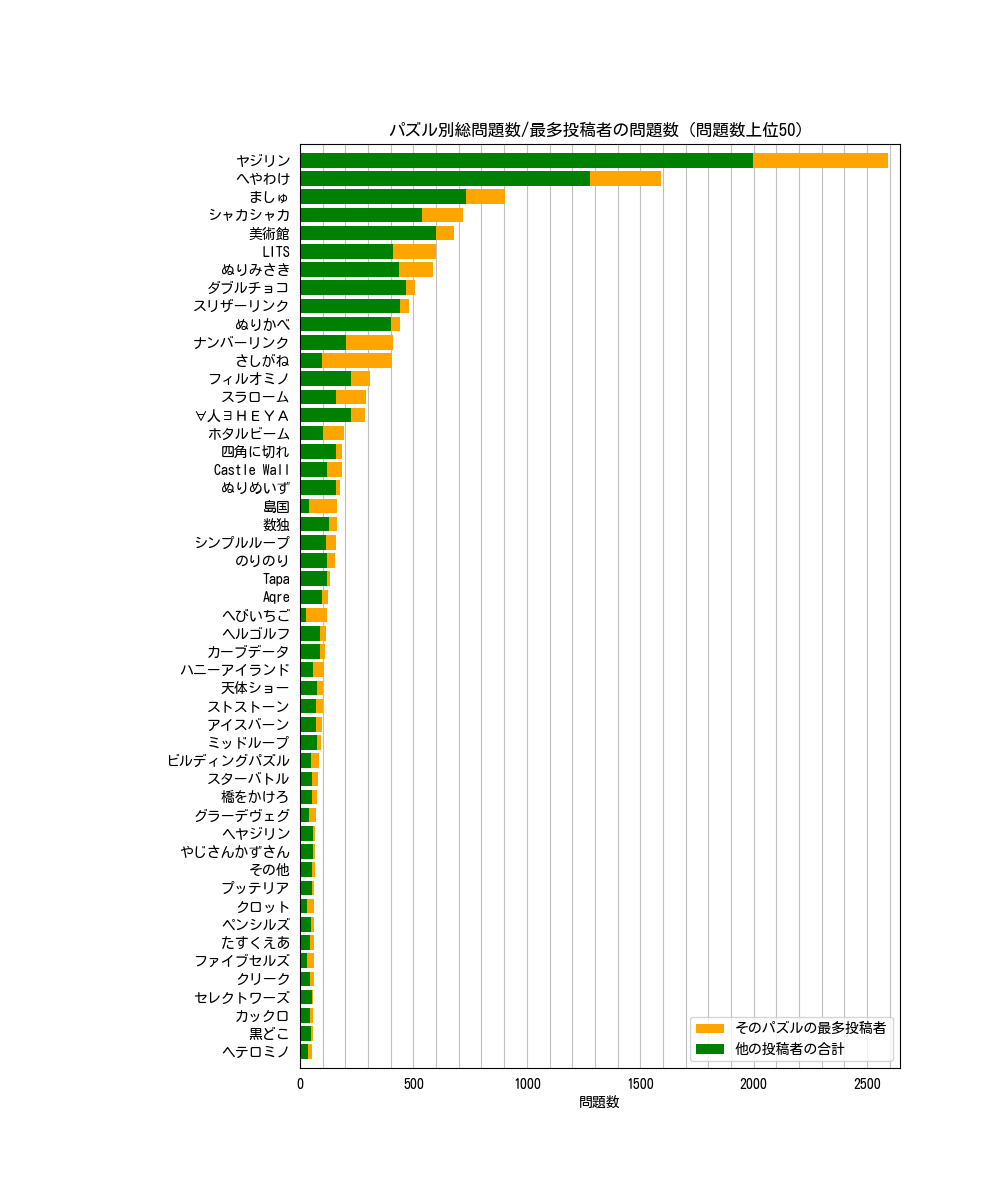
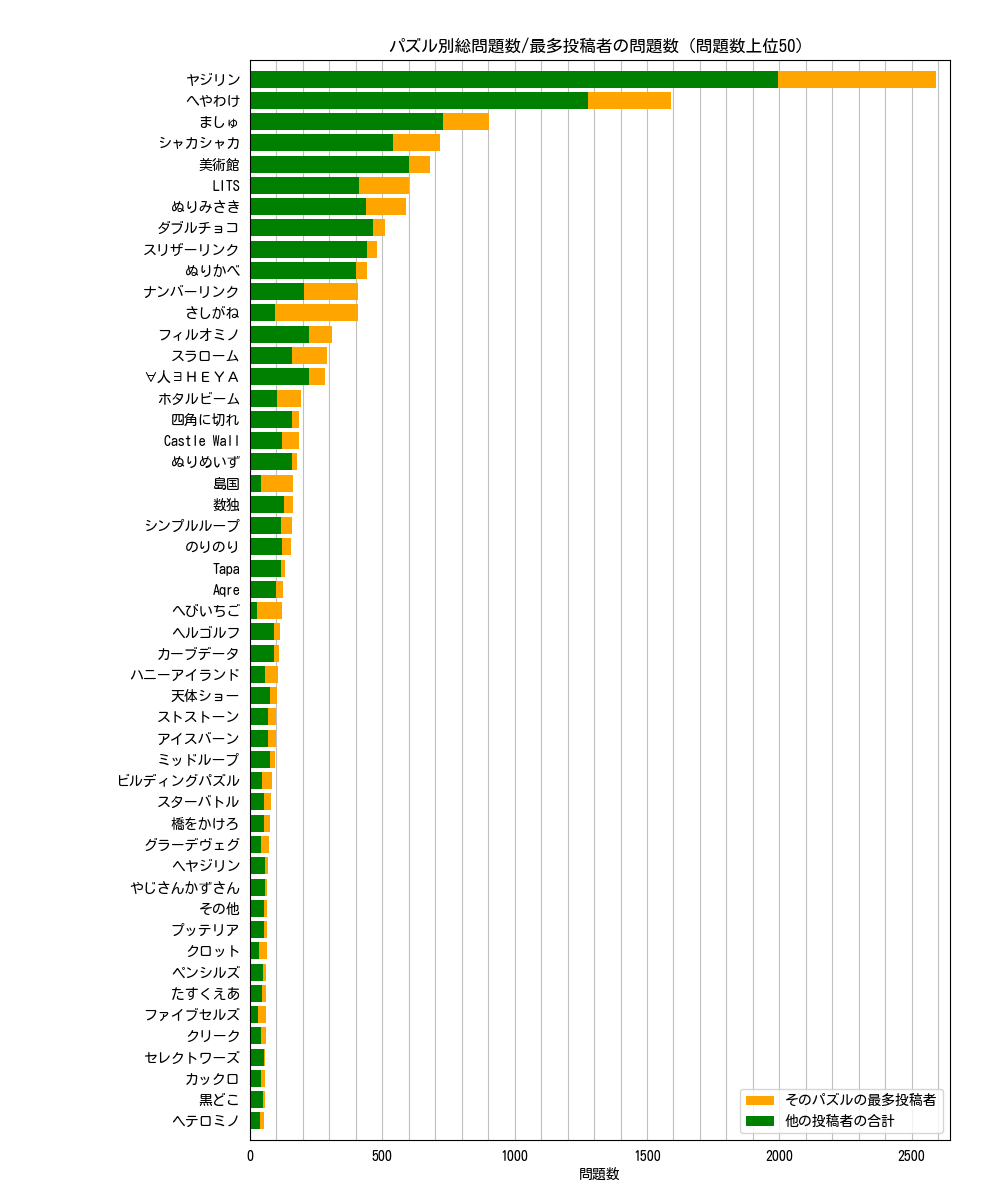
サイトに表示する

diff --git a/view/graph.html b/view/graph.html
@@ -12,8 +12,17 @@
         </header>
         <div class="contents">
             <h2>グラフ</h2>
-            <img src="../graph/problem-liked_by_puzzle.png" title="パズル別問題数/いいね数">
-            <img src="../graph/problem-liked_by_author.png" title="作者別問題数/いいね数">
+            <details>
+                <summary>問題数</summary>
+                <img src="../graph/problem-by-puzzle.png" title="作者別投稿数">
+                <img src="../graph/problem-by-author.png" title="パズル別問題数">
+            </details>
+            <br>
+            <details>
+                <summary>問題数 v.s. いいね数</summary>
+                <img src="../graph/problem-liked-by-puzzle.png" title="パズル別問題数/いいね数">
+                <img src="../graph/problem-liked-by-author.png" title="作者別問題数/いいね数">
+            </details>
         </div>
         <script type="text/javascript" src="./js/data.js"></script>
     </body>

diff --git a/python/graph.py b/python/graph.py
@@ -35,7 +35,7 @@ def plot_problem_liked_by(author_dict, puzzle_dict):
     x, y = problem_liked_by(puzzle_dict)
     pyplot.title("パズル別問題数/いいね数")
     pyplot.scatter(x, y, s=5, c='g')
-    fig.savefig("graph/problem-liked-b-puzzle.png")
+    fig.savefig("graph/problem-liked-by-puzzle.png")
     return
 
 
@@ -79,7 +79,7 @@ def plot_top_in_problem(author_dict, puzzle_dict):
         ax.set_axisbelow(True)
         ax.tick_params(width=0, which="both")
         pyplot.grid(axis="x", which="both", c="grey", alpha=0.5)
-        pyplot.subplots_adjust(left=0.3, wspace=2, hspace=10)
+        pyplot.subplots_adjust(left=0.25, right=0.95, bottom=0.05, top=0.95)
         pyplot.subplot().margins(0.02, 0.01)
 
     fig = pyplot.figure(figsize=[10, 12])
